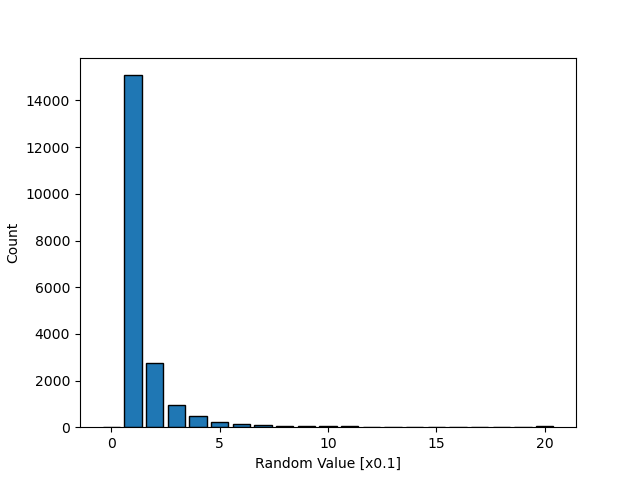
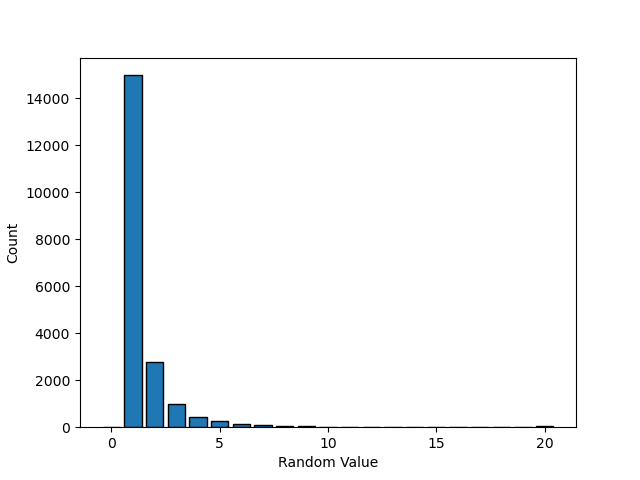
Fix: 乱数のシードの設定と各ラベルの変更

diff --git a/1-3.cpp b/1-3.cpp
@@ -1,6 +1,7 @@
 #include <stdio.h>
 #include <stdlib.h>
 #include <cmath>
+#include <ctime>
 #include <vector>
 #include "matplotlib-cpp/matplotlibcpp.h"
 
@@ -12,6 +13,8 @@ double pareto(double a, double boundary) {
 }
 
 int main() {
+    std::srand(static_cast<unsigned int>(std::time(nullptr)));
+
     const int a = 2;
     const double boundary = 1;
     const int N = 20000;
@@ -24,7 +27,7 @@ int main() {
     }
 
     plt::ylabel("Count");
-    plt::xlabel("Random Value [x0.1]");
+    plt::xlabel("Random Value");
     plt::bar(distributions);
     plt::show();
 }

diff --git a/1-4.cpp b/1-4.cpp
@@ -14,7 +14,7 @@ double pareto(double a, double boundary) {
 }
 
 int main() {
-    std::srand(static_cast<unsigned int>(std::time(nullptr))); 
+    std::srand(static_cast<unsigned int>(std::time(nullptr)));
 
     const int a = 2;
     const double boundary = 1;
@@ -28,8 +28,8 @@ int main() {
         y[i] = value;
     }
 
-    plt::ylabel("Count");
-    plt::xlabel("Random Value [x0.1]");
+    plt::ylabel("Value");
+    plt::xlabel("Count");
     plt::plot(y);
     plt::show();
 }
